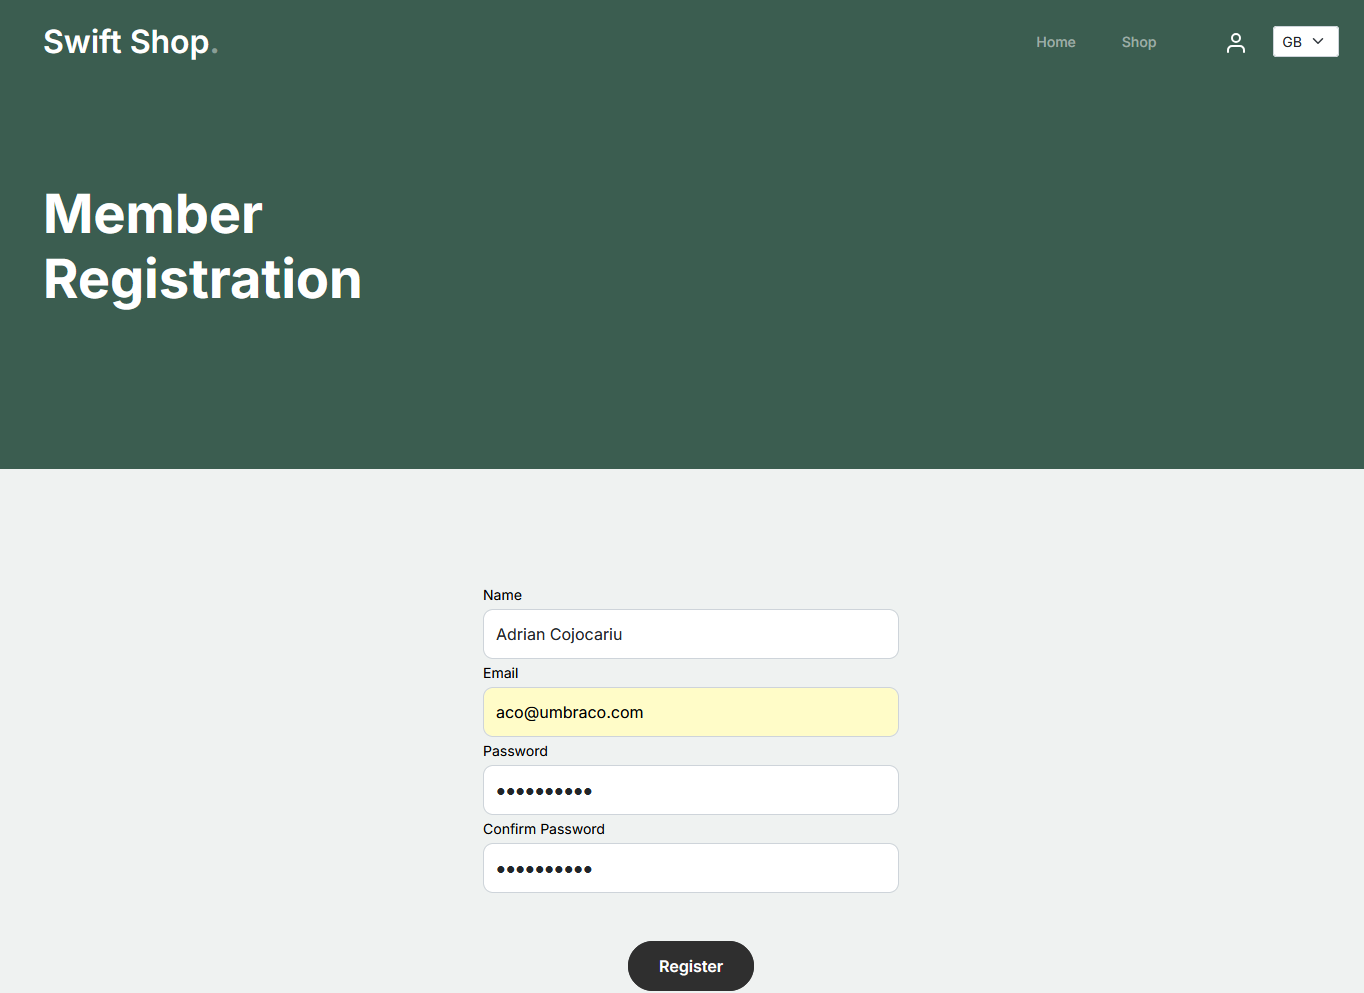
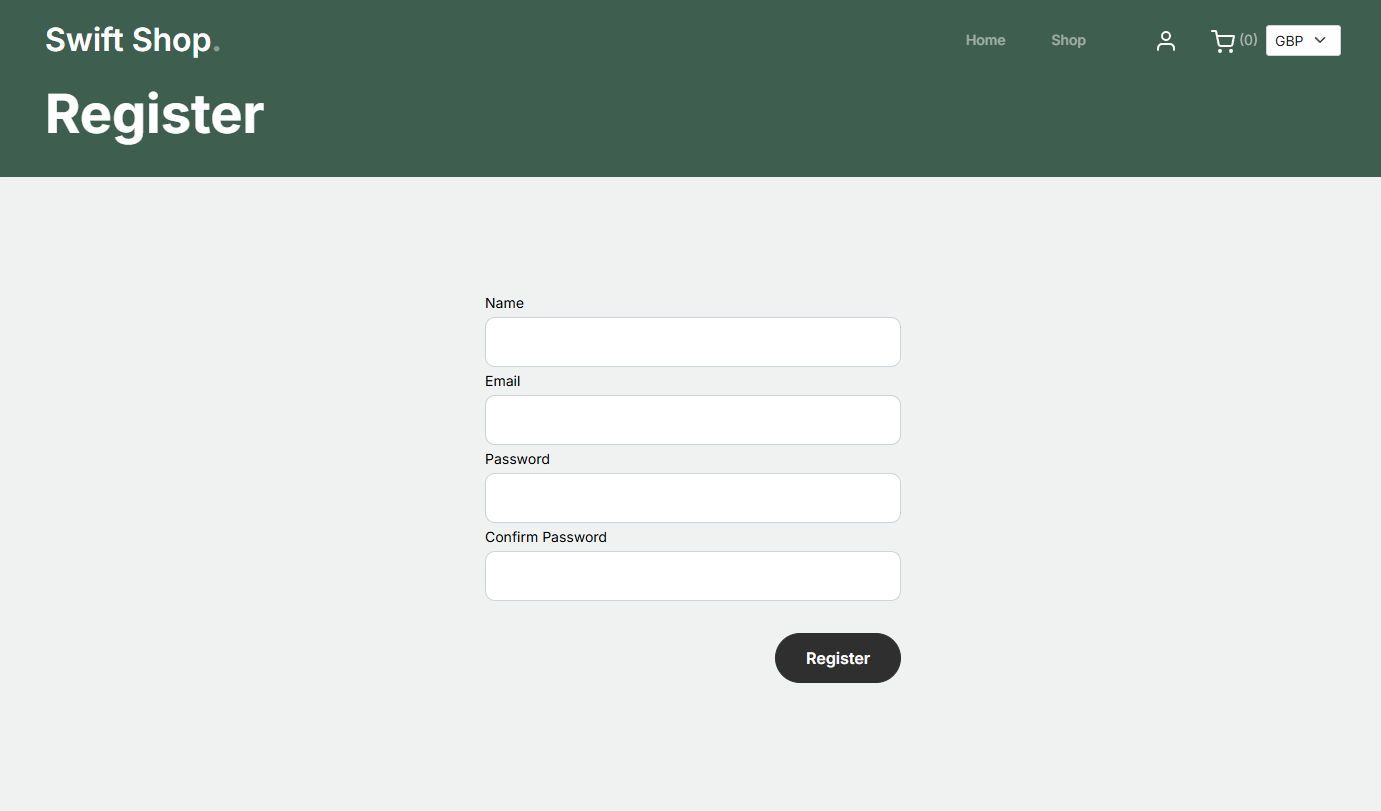
Implemented guide for creating a member portal

diff --git a/15/umbraco-commerce/how-to-guides/member-portal.md b/15/umbraco-commerce/how-to-guides/member-portal.md
@@ -1,0 +1,232 @@
+---
+description: Learn how to build a members portal in Umbraco Commerce.
+---
+
+# Building a Members Portal
+
+A members portal is a private area of your website where customers can log in to access their order history, manage their account details, and view personalized content. In this guide, we will show you how to build a members portal in Umbraco Commerce.
+
+## Setting Up the Members
+
+The first step in building a members portal is to create a member type for your customers. This member type will define the properties that customers can have, such as their name, email address, and password.
+
+### Creating a Member Group
+
+1. Navigate to the **Members** section of the backoffice.
+2. Next to the **Member Groups** heading in the navigation, click the **+** button to create a new member type.
+3. Enter a name for the member group, such as `Customer`.
+
+![Customer Member Group](images/member-portal/customer-member-group.png)
+
+4. Click the **Save** button to create the member group.
+
+### Assigning Members to the Customer Member Group
+
+1. Navigate to the **Members** section of the backoffice.
+2. Click on the **Members** tab in the navigation.
+3. Click on the member you want to assign to the `Customer` member group.
+4. In the **Member Group** property, select the `Customer` member group.
+
+![Example Customer](images/member-portal/customer-assign-member-group.png)
+
+5. Click the **Save** button to assign the member to the `Customer` member group.
+
+## Setting Up the Members Area
+
+The next step in building a members portal is to create the pages and templates that will make up the members area of your website.
+
+### Document Type Setup
+
+1. Navigate to the **Settings** section of the backoffice.
+2. Create two new document types: `Customer Portal` and `Login`.
+
+![Customer Portal Document Types](images/member-portal/document-types.png)
+
+3. Update your site root document type to include the `Customer Portal` and `Login` document types as a child.
+
+![Allowed Children Configuration](images/member-portal/allowed-children.png)
+
+### Content Setup
+
+1. Navigate to the **Content** section of the backoffice.
+2. Create a new page using the `Customer Portal` document type and name it `Customer Portal`.
+3. Create a new page using the `Login` document type and name it `Login`.
+
+![Customer Portal Content Structure](images/member-portal/content-structure.png)
+
+4. Expand the context menu for the `Customer Portal` node by clicking the three dots.
+5. Click on the **Public Access** option.
+6. In the **Public Access** dialog, choose the **Group based protection** option and click **Next**.
+7. Select the `Customer` member group for the group option.
+8. Select the `Login` node for the login and error page options.
+
+![Public Access Configuration](images/member-portal/public-access.png)
+
+9. Click **Save** to apply the public access settings.
+
+## Implementing a Member Login
+
+In order to access the members portal, customers will need to log in. We will create a login form that will allow customers to enter their username and password to access the portal.
+
+1. Open the `Login.cshtml` template file.
+2. Add the following code to create a login form:
+
+```csharp
+@using (Html.BeginUmbracoForm<UmbLoginController>("HandleLogin", new { RedirectUrl = "/customer-portal" }))
+{
+    <div asp-validation-summary="ModelOnly"></div>
+        
+    <div>
+        <label asp-for="@loginModel.Username">Username</label>
+        <input asp-for="@loginModel.Username" />
+        <span asp-validation-for="@loginModel.Username"></span>
+    </div>
+    
+    <div>
+        <label asp-for="@loginModel.Password">Password</label>
+        <input asp-for="@loginModel.Password" />
+        <span asp-validation-for="@loginModel.Password"></span>
+    </div>
+    
+    <button type="submit">Login</button>
+}
+```
+
+{% hint style="info" %}
+The `UmbLoginController` class comes pre-installed with Umbraco and handles the login process for you, so you don't need to create a custom controller.
+{% endhint %}
+
+On the frontend, customers will be able to enter their username and password and click the **Login** button to access the members portal.
+
+![Login Page](images/member-portal/login-page.png)
+
+## Displaying Member Order History
+
+Now that members can log in, we'll update the `Customer Portal` page to display the order history for the logged-in member.
+
+1. Open the `CustomerPortal.cshtml` template file.
+2. Add the following code to display the order history:
+
+```csharp
+@inject IMemberManager memberManager
+@inject IUmbracoCommerceApi commerceApi
+@inherits Umbraco.Cms.Web.Common.Views.UmbracoViewPage
+@{
+	var store = Model.GetStore();
+
+	var currentMember = await memberManager.GetCurrentMemberAsync();
+	var orders = currentMember != null
+		? await commerceApi.GetFinalizedOrdersForCustomerAsync(store.Id, currentMember.Email)
+		: Enumerable.Empty<OrderReadOnly>();
+}
+
+@if (orders.Count() > 0)
+{
+    <table>
+        <thead>
+            <th>Order Number</th>
+            <th>Date</th>
+            <th>Total</th>
+        </thead>
+        <tbody>
+            @foreach (var order in orders)
+            {
+                <tr>
+                    <td><strong>@order.OrderNumber</strong></td>
+                    <td>@order.FinalizedDate?.ToString("MMM, d yyyy")</td>
+                    <td><strong>@(await order.TotalPrice.Value.FormattedAsync())</strong></td>
+                </tr>
+            }
+        </tbody>
+    </table>
+}
+else
+{
+    <h2>You haven't placed any orders yet</h2>
+}
+```
+
+The `Customer Portal` page will now display a table of the member's order history, including the order number, date, and total price.
+
+![Order History](images/member-portal/order-history.png)
+
+### Assigning Orders to a Customer
+
+The order history will display all orders that have been finalized for the logged-in member. Orders that are created whilst the member is logged in will automatically be associated with the member. If you wish to assign an order to a member at any point, you can also use the API method:
+
+```csharp
+writableOrder.AssignToCustomer(member.Key.ToString());
+```
+
+## Extras
+
+### Displaying Member Login Status
+
+In your site header, add the following code to display the member login status:
+
+```csharp
+@{
+    var isLoggedIn = Context.User?.Identity?.IsAuthenticated ?? false;
+    if (isLoggedIn)
+    {
+        <a href="/customer-portal">@Context.User?.Identity?.Name</a>
+        @using (Html.BeginUmbracoForm<UmbLoginStatusController>("HandleLogout", new { RedirectUrl = rootPage.Url() }, new { @name = "logoutForm" }))
+        {
+            <button type="submit"><strong>logout</strong></button>
+        }
+    } 
+    else 
+    {
+        <a href="/login">Login</a>
+    }
+}
+```
+![Logged Out Status](images/member-portal/logged-out.png)
+![Logged In Status](images/member-portal/logged-in.png)
+
+### Registering a Member
+
+To allow customers to register as members, you can create a registration form that will allow customers to enter their name, email address, and password.
+
+Implement a registration document type and page in the same way as the login page. Then, open the `Register.cshtml` template file and add the following code to create a registration form:
+
+```csharp
+@using (Html.BeginUmbracoForm<UmbRegisterController>("HandleRegisterMember", new { RedirectUrl = "/customer-poratl", UsernameIsEmail = true }))
+{
+    <div asp-validation-summary="ModelOnly"></div>
+        
+    <div>
+        <label asp-for="@registerModel.Name">Name</label>
+        <input asp-for="@registerModel.Name" />
+        <span asp-validation-for="@registerModel.Name"></span>
+    </div>
+    
+    <div>
+        <label asp-for="@registerModel.Email">Email</label>
+        <input asp-for="@registerModel.Email" />
+        <span asp-validation-for="@registerModel.Email"></span>
+    </div>
+    
+    <div>
+        <label for="email">Password</label>
+        <input asp-for="@registerModel.Password" />
+        <span asp-validation-for="@registerModel.Password"></span>
+    </div>
+    
+    <div>
+        <label for="email">Confirm Password</label>
+        <input asp-for="@registerModel.ConfirmPassword" />
+        <span asp-validation-for="@registerModel.ConfirmPassword"></span>
+    </div>
+    
+    <button type="submit">Register</button>
+}
+```
+
+{% hint style="info" %}
+The `UmbRegisterController` class comes pre-installed with Umbraco and handles the login process for you, so you don't need to create a custom controller.
+{% endhint %}
+
+On the frontend, customers will be able to enter their name, email address, and password to register as a member.
+
+![Register Page](images/member-portal/register-page.png)
